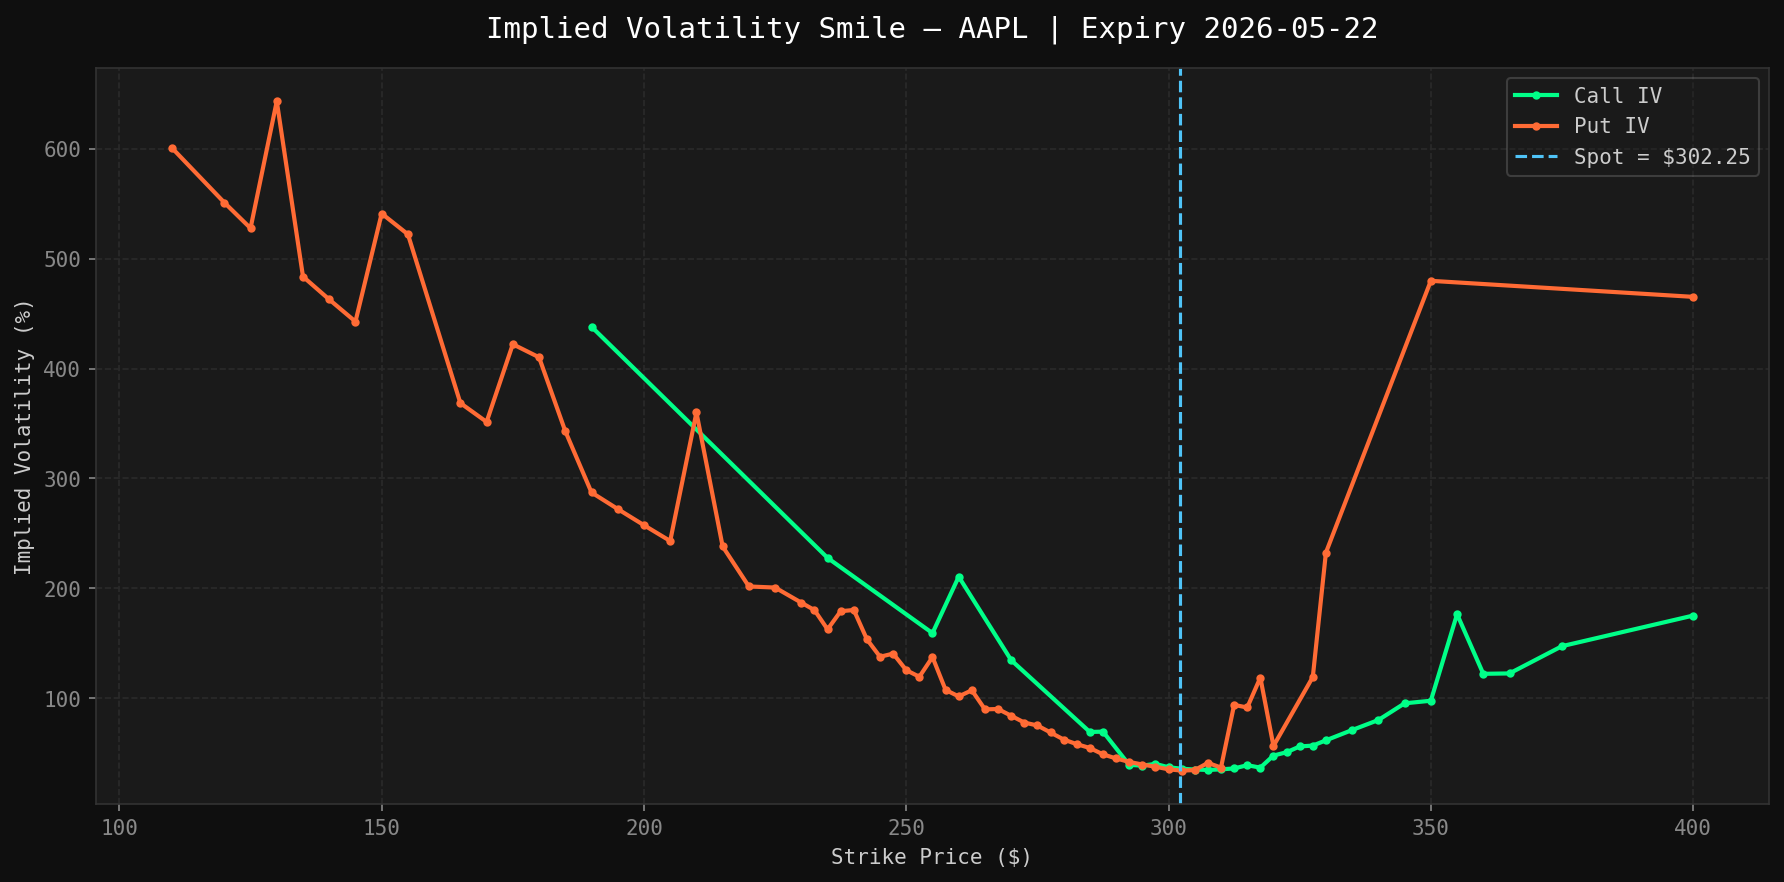
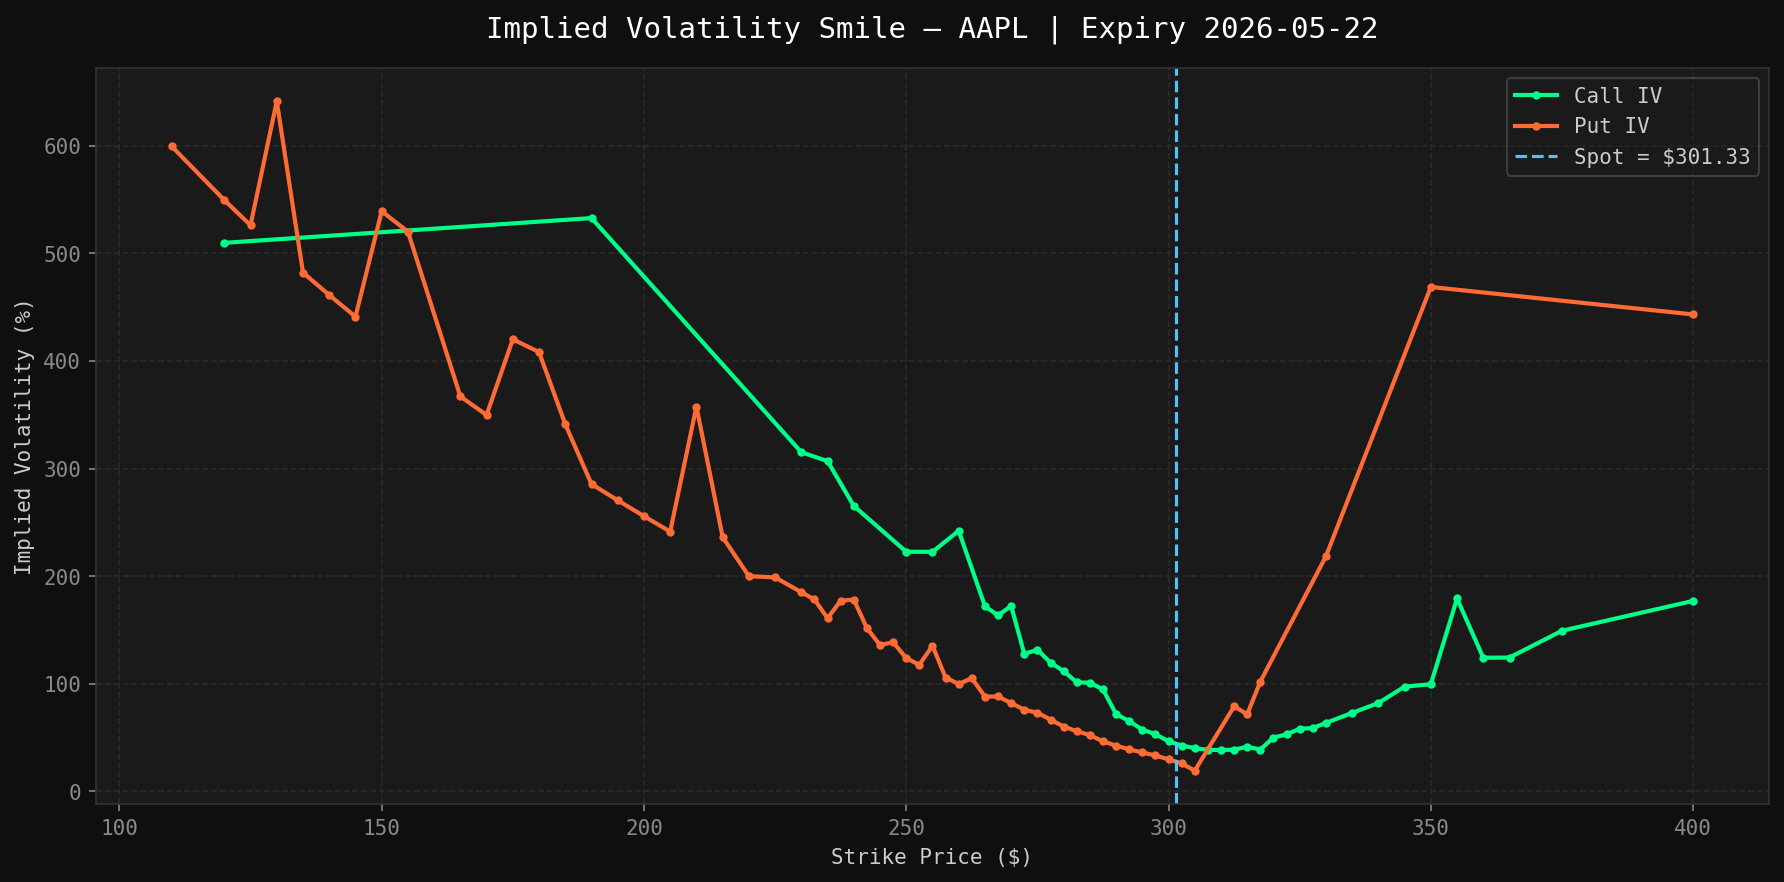
CLI, sensitivity analysis, volatility surface complete - spec 100% done

diff --git a/src/cli.py b/src/cli.py
@@ -1,0 +1,97 @@
+import argparse
+from src.utils.logger import get_logger
+
+logger = get_logger(__name__)
+
+
+def parse_args():
+    parser = argparse.ArgumentParser(
+        description="Quant Monte Carlo Engine — Professional Option Pricing"
+    )
+
+    subparsers = parser.add_subparsers(dest="mode", required=True)
+
+    # --- Synthetic mode ---
+    syn = subparsers.add_parser("synthetic", help="Price with custom parameters")
+    syn.add_argument("--S0",          type=float, default=100.0)
+    syn.add_argument("--K",           type=float, default=100.0)
+    syn.add_argument("--T",           type=float, default=1.0)
+    syn.add_argument("--r",           type=float, default=0.05)
+    syn.add_argument("--sigma",       type=float, default=0.2)
+    syn.add_argument("--n-steps",     type=int,   default=252)
+    syn.add_argument("--n-sims",      type=int,   default=100_000)
+    syn.add_argument("--option-type", type=str,   default="call",
+                     choices=["call", "put"])
+
+    # --- Market mode ---
+    mkt = subparsers.add_parser("market", help="Price using live market data")
+    mkt.add_argument("--ticker",      type=str,   required=True)
+    mkt.add_argument("--option-type", type=str,   default="call",
+                     choices=["call", "put"])
+
+    return parser.parse_args()
+
+
+def run_synthetic(args):
+    from config.simulation_config import SimulationConfig
+    from src.pricing.black_scholes import BlackScholesPricer
+    from src.pricing.monte_carlo_pricer import MonteCarloPricer
+    from src.variance_reduction.antithetic_pricer import AntitheticPricer
+    from src.analytics.sensitivity import SensitivityAnalyzer
+    from src.analytics.convergence import ConvergenceAnalyzer
+    from src.visualization.plotter import Plotter
+    import numpy as np
+
+    config = SimulationConfig(
+        S0=args.S0, K=args.K, T=args.T, r=args.r,
+        sigma=args.sigma, n_steps=args.n_steps,
+        n_simulations=args.n_sims,
+        option_type=args.option_type
+    )
+
+    # Pricing
+    bs   = BlackScholesPricer(config)
+    mc   = MonteCarloPricer(config)
+    anti = AntitheticPricer(config)
+
+    bs_result   = bs.summary()
+    mc_result   = mc.price(random_seed=42)
+    anti_result = anti.price(random_seed=42)
+
+    logger.info("=" * 55)
+    logger.info(f"  BS    price : ${bs_result['price']:.6f}")
+    logger.info(f"  MC    price : ${mc_result['price']:.6f}  SE={mc_result['std_error']:.6f}")
+    logger.info(f"  Anti  price : ${anti_result['price']:.6f}  SE={anti_result['std_error']:.6f}")
+    logger.info("=" * 55)
+
+    # Sensitivity
+    analyzer  = SensitivityAnalyzer(config)
+    vol_df    = analyzer.sweep_volatility(np.linspace(0.05, 0.80, 50))
+    strike_df = analyzer.sweep_strike(np.linspace(config.S0 * 0.7, config.S0 * 1.3, 50))
+    mat_df    = analyzer.sweep_maturity(np.linspace(0.1, 2.0, 50))
+
+    # Convergence
+    conv         = ConvergenceAnalyzer(config)
+    conv_results = conv.run([100, 500, 1000, 5000, 10000, 50000, 100000])
+
+    # Plots
+    plotter = Plotter(config)
+    plotter.plot_all(results=conv_results, bs_price=bs_result["price"], random_seed=42)
+    plotter.plot_sensitivity(vol_df, strike_df, mat_df)
+
+
+def run_market(args):
+    from src.market_pricing import run_market_pricing
+    run_market_pricing(args.ticker, args.option_type)
+
+
+def main():
+    args = parse_args()
+    if args.mode == "synthetic":
+        run_synthetic(args)
+    elif args.mode == "market":
+        run_market(args)
+
+
+if __name__ == "__main__":
+    main()

diff --git a/src/visualization/plotter.py b/src/visualization/plotter.py
@@ -192,6 +192,99 @@ class Plotter:
         plt.close()
         logger.info(f"Saved: {path}")
 
+    def plot_volatility_surface(self, surface_data: list, spot_price: float, ticker: str = ""):
+        """Plot implied volatility surface across strikes and expiries."""
+        logger.info("Generating volatility surface plot...")
+
+        import pandas as pd
+
+        df = pd.DataFrame(surface_data)
+        df = df.dropna(subset=["iv"])
+        calls = df[df["option_type"] == "call"]
+
+        pivot = calls.pivot_table(index="strike", columns="expiry", values="iv")
+        pivot = pivot.dropna(how="all").ffill(axis=1)
+
+        strikes  = pivot.index.values
+        expiries = np.arange(len(pivot.columns))
+        Z        = pivot.values * 100
+
+        fig = plt.figure(figsize=(14, 8))
+        ax  = fig.add_subplot(111, projection="3d")
+
+        X, Y = np.meshgrid(expiries, strikes)
+
+        surf = ax.plot_surface(X, Y, Z, cmap="plasma", alpha=0.85, linewidth=0)
+        fig.colorbar(surf, ax=ax, shrink=0.4, label="Implied Vol (%)")
+
+        ax.set_xlabel("Expiry")
+        ax.set_ylabel("Strike ($)")
+        ax.set_zlabel("IV (%)")
+        ax.set_title(f"Volatility Surface — {ticker}", fontsize=13, pad=20)
+
+        ax.set_xticks(expiries)
+        ax.set_xticklabels(pivot.columns, rotation=45, fontsize=6)
+
+        ax.set_facecolor("#1a1a1a")
+        fig.patch.set_facecolor("#0f0f0f")
+        ax.tick_params(colors="#888888")
+
+        plt.tight_layout()
+        path = f"{self.output_dir}/volatility_surface.png"
+        plt.savefig(path, dpi=150, bbox_inches="tight")
+        plt.close()
+        logger.info(f"Saved: {path}")
+
+    def plot_sensitivity(self, vol_df, strike_df, maturity_df):
+        """Plot option price sensitivity to vol, strike, and maturity."""
+        logger.info("Generating sensitivity analysis plot...")
+
+        fig, (ax1, ax2, ax3) = plt.subplots(1, 3, figsize=(16, 5))
+
+        # Vol sensitivity
+        ax1.plot(vol_df["sigma"] * 100, vol_df["price"],
+                 color=ACCENT, linewidth=2)
+        ax1.axvline(x=self.config.sigma * 100, color=SECONDARY,
+                    linestyle="--", linewidth=1.2, label=f"Current σ = {self.config.sigma*100:.0f}%")
+        ax1.set_title("Price vs Volatility", fontsize=12)
+        ax1.set_xlabel("Volatility (%)")
+        ax1.set_ylabel("Option Price ($)")
+        ax1.legend(framealpha=0.2)
+        ax1.grid(True)
+
+        # Strike sensitivity
+        ax2.plot(strike_df["strike"], strike_df["price"],
+                 color=ACCENT, linewidth=2)
+        ax2.axvline(x=self.config.S0, color=TERTIARY,
+                    linestyle="--", linewidth=1.2, label=f"Spot = ${self.config.S0:.0f}")
+        ax2.axvline(x=self.config.K, color=SECONDARY,
+                    linestyle="--", linewidth=1.2, label=f"Strike = ${self.config.K:.0f}")
+        ax2.set_title("Price vs Strike", fontsize=12)
+        ax2.set_xlabel("Strike ($)")
+        ax2.set_ylabel("Option Price ($)")
+        ax2.legend(framealpha=0.2)
+        ax2.grid(True)
+
+        # Maturity sensitivity
+        ax3.plot(maturity_df["maturity"], maturity_df["price"],
+                 color=ACCENT, linewidth=2)
+        ax3.axvline(x=self.config.T, color=SECONDARY,
+                    linestyle="--", linewidth=1.2, label=f"Current T = {self.config.T:.2f}y")
+        ax3.set_title("Price vs Maturity", fontsize=12)
+        ax3.set_xlabel("Time to Maturity (Years)")
+        ax3.set_ylabel("Option Price ($)")
+        ax3.legend(framealpha=0.2)
+        ax3.grid(True)
+
+        plt.suptitle("Sensitivity Analysis", fontsize=14, y=1.02)
+        plt.tight_layout()
+        path = f"{self.output_dir}/sensitivity.png"
+        plt.savefig(path, dpi=150, bbox_inches="tight")
+        plt.close()
+        logger.info(f"Saved: {path}")
+
+
+
     def plot_volatility_smile(self, chain, spot_price: float, title: str = ""):
         """Plot implied volatility smile/skew from real options chain."""
         logger.info("Generating volatility smile plot...")

diff --git a/src/analytics/sensitivity.py b/src/analytics/sensitivity.py
@@ -1,0 +1,65 @@
+import numpy as np
+import pandas as pd
+from config.simulation_config import SimulationConfig
+from src.pricing.black_scholes import BlackScholesPricer
+from src.utils.logger import get_logger
+
+logger = get_logger(__name__)
+
+
+class SensitivityAnalyzer:
+    """
+    Sweeps sigma, strike, and maturity to show how option price
+    responds to changes in key parameters.
+    """
+
+    def __init__(self, base_config: SimulationConfig):
+        self.base = base_config
+
+    def sweep_volatility(self, sigma_range: np.ndarray) -> pd.DataFrame:
+        """Price option across a range of volatilities."""
+        logger.info(f"Sweeping volatility: {sigma_range[0]:.2f} to {sigma_range[-1]:.2f}")
+        records = []
+        for sigma in sigma_range:
+            cfg = SimulationConfig(
+                S0=self.base.S0, K=self.base.K, T=self.base.T,
+                r=self.base.r, sigma=sigma,
+                n_steps=self.base.n_steps,
+                n_simulations=self.base.n_simulations,
+                option_type=self.base.option_type
+            )
+            price = BlackScholesPricer(cfg).price()
+            records.append({"sigma": sigma, "price": price})
+        return pd.DataFrame(records)
+
+    def sweep_strike(self, strike_range: np.ndarray) -> pd.DataFrame:
+        """Price option across a range of strikes."""
+        logger.info(f"Sweeping strike: {strike_range[0]:.2f} to {strike_range[-1]:.2f}")
+        records = []
+        for K in strike_range:
+            cfg = SimulationConfig(
+                S0=self.base.S0, K=K, T=self.base.T,
+                r=self.base.r, sigma=self.base.sigma,
+                n_steps=self.base.n_steps,
+                n_simulations=self.base.n_simulations,
+                option_type=self.base.option_type
+            )
+            price = BlackScholesPricer(cfg).price()
+            records.append({"strike": K, "price": price})
+        return pd.DataFrame(records)
+
+    def sweep_maturity(self, maturity_range: np.ndarray) -> pd.DataFrame:
+        """Price option across a range of maturities."""
+        logger.info(f"Sweeping maturity: {maturity_range[0]:.2f} to {maturity_range[-1]:.2f}")
+        records = []
+        for T in maturity_range:
+            cfg = SimulationConfig(
+                S0=self.base.S0, K=self.base.K, T=T,
+                r=self.base.r, sigma=self.base.sigma,
+                n_steps=max(int(T * 252), 1),
+                n_simulations=self.base.n_simulations,
+                option_type=self.base.option_type
+            )
+            price = BlackScholesPricer(cfg).price()
+            records.append({"maturity": T, "price": price})
+        return pd.DataFrame(records)

diff --git a/src/market_pricing.py b/src/market_pricing.py
@@ -87,12 +87,43 @@ def run_market_pricing(ticker: str, option_type: str = "call"):
     logger.info(f"  IV vs HV diff   : {abs(market_iv - sigma)*100:.2f}% vol spread")
     logger.info("-" * 55)
 
+    # --- Volatility smile plot ---
     plotter = Plotter(config_iv)
     plotter.plot_volatility_smile(
         chain=chain,
         spot_price=S0,
         title=f"{ticker} | Expiry {expiry}"
     )
+
+    # --- Volatility surface across all expiries ---
+    logger.info("Building volatility surface across all expiries...")
+    surface_data = []
+
+    for exp in expiries[:6]:  # limit to 6 expiries to keep it fast
+        try:
+            exp_dt = datetime.strptime(exp, "%Y-%m-%d")
+            T_exp  = max((exp_dt - datetime.today()).days / 365, 1/365)
+            ch     = fetcher.get_options_chain(expiry=exp)
+            ch     = compute_iv_surface(ch, S=S0, r=RISK_FREE_RATE, T=T_exp)
+
+            for _, row in ch.iterrows():
+                if row["computed_iv"] > 0 and row["computed_iv"] < 5:
+                    surface_data.append({
+                        "expiry":      exp,
+                        "strike":      row["strike"],
+                        "iv":          row["computed_iv"],
+                        "option_type": row["option_type"]
+                    })
+        except Exception as e:
+            logger.warning(f"Skipping expiry {exp}: {e}")
+            continue
+
+    if surface_data:
+        plotter.plot_volatility_surface(
+            surface_data=surface_data,
+            spot_price=S0,
+            ticker=ticker
+        )
 
     logger.info("=" * 55)
     logger.info("Market pricing complete.")